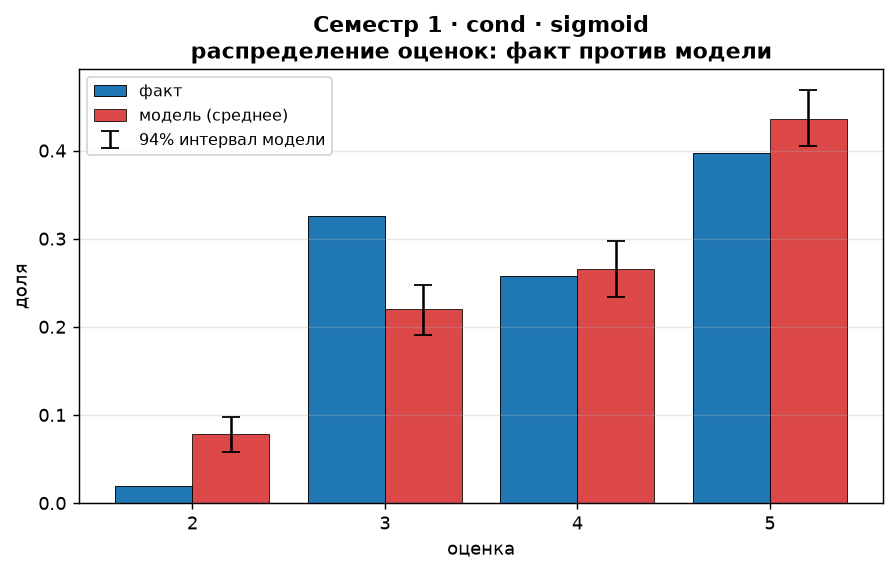
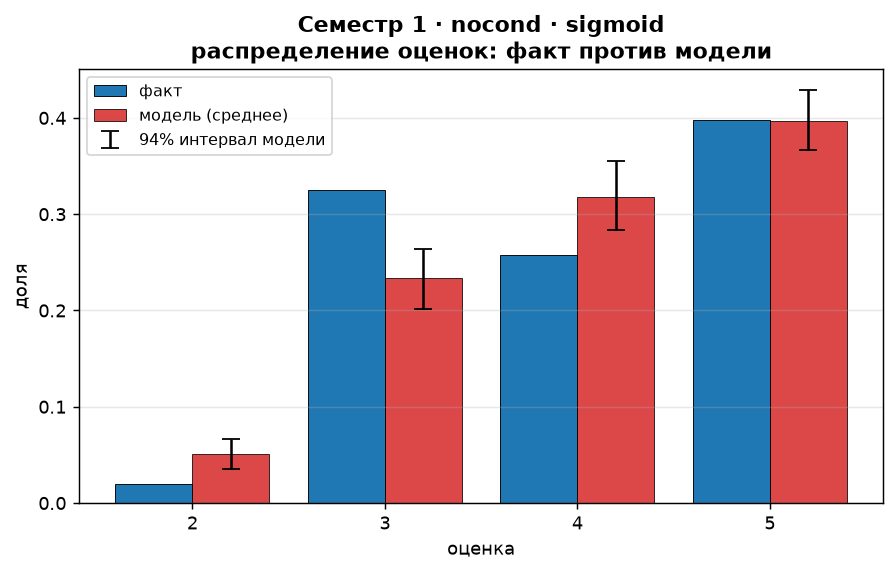
Дефолт nocond+sigmoid по валидации, метрика точности в validate.py

diff --git a/scripts/validate.py b/scripts/validate.py
@@ -7,11 +7,16 @@
      сложность модели. Сравнение делается ОТДЕЛЬНО по каждому семестру:
      LOO сопоставим только между моделями, обученными на одних наблюдениях.
 
-  2. Похожи ли данные, порождённые моделью, на настоящие? Из постериора
+  2. Насколько точно модель воспроизводит уже известные оценки? Считается
+     log predictive density, доля угаданных оценок и MAE — ровно на тех
+     вероятностях, которые выдаёт scripts/query.py. Метрики выборочные,
+     поэтому дополняют LOO, а не заменяют его.
+
+  3. Похожи ли данные, порождённые моделью, на настоящие? Из постериора
      сэмплируются оценки и их распределение сравнивается с фактическим.
 
-Результат: results/loo_compare_sem{1,2}.csv, results/ppc_summary.csv,
-           results/plots/ppc_sem{1,2}.png
+Результат: results/loo_compare_sem{1,2}.csv, results/predictive_scores.csv,
+           results/ppc_summary.csv, results/plots/ppc_sem{1,2}.png
 
     python scripts/validate.py
     python scripts/validate.py --thin 4     # реже прорежать (точнее, дольше)
@@ -29,7 +34,7 @@ import matplotlib
 matplotlib.use("Agg")
 import matplotlib.pyplot as plt
 
-from utils import BUILDERS, GRADES, chi_square_priors, RATIO_KINDS
+from utils import BUILDERS, GRADES, chi_square_priors, grade_probs, RATIO_KINDS
 from _paths import DATA, TRACES, RESULTS, PLOTS
 
 # Сколько draws оставить для LOO. Полная трасса — 16000 draws × ~1100
@@ -108,7 +113,50 @@ def compare_semester(sem, thin):
 
 
 # ---------------------------------------------------------------------------
-# (2) Posterior predictive check
+# (2) Прямая предсказательная точность на наблюдённых оценках
+# ---------------------------------------------------------------------------
+def predictive_scores(sem, thin):
+    """Насколько хорошо модель угадывает уже известные оценки.
+
+    Дополняет LOO: тот оценивает предсказание вне выборки и штрафует за
+    сложность, а здесь считается ровно то, что выдаёт scripts/query.py —
+    вероятности с маргинализацией по постериору. Метрики выборочные (модель
+    эти оценки видела), поэтому смотреть их надо ВМЕСТЕ с LOO, а не вместо.
+    """
+    df, matrix = load(sem)
+    obs_r, obs_c = np.where(~np.isnan(matrix))
+    actual = matrix[obs_r, obs_c].astype(int)
+    idx = actual - 2
+
+    rows = []
+    for variant in ("cond", "nocond"):
+        for ratio_kind in RATIO_KINDS:
+            path = TRACES / f"trace_sem{sem}_{variant}_{ratio_kind}.nc"
+            if not path.exists():
+                continue
+            idata = az.from_netcdf(path).sel(draw=slice(None, None, thin))
+            s = idata.posterior["student_ability"].values.reshape(-1, matrix.shape[0])
+            d = idata.posterior["item_difficulty"].values.reshape(-1, matrix.shape[1])
+
+            total = np.zeros((len(actual), len(GRADES)))
+            for s_draw, d_draw in zip(s, d):
+                total += grade_probs(s_draw[obs_r], d_draw[obs_c],
+                                     ratio_kind=ratio_kind, gate=(variant == "cond"))
+            probs = total / len(s)
+
+            p_actual = probs[np.arange(len(idx)), idx]
+            predicted = GRADES[probs.argmax(axis=1)]
+            rows.append({
+                "sem": sem, "model": variant, "ratio": ratio_kind,
+                "log_pred": round(float(np.log(p_actual).mean()), 4),
+                "accuracy": round(float((predicted == actual).mean()), 4),
+                "mae": round(float(np.abs(probs @ GRADES - actual).mean()), 4),
+            })
+    return rows
+
+
+# ---------------------------------------------------------------------------
+# (3) Posterior predictive check
 # ---------------------------------------------------------------------------
 def ppc_semester(sem, variant, ratio_kind, thin):
     """Сравнивает распределение оценок из модели с фактическим."""
@@ -175,7 +223,7 @@ def build_parser():
                                 formatter_class=argparse.RawDescriptionHelpFormatter)
     p.add_argument("--thin", type=int, default=DEFAULT_THIN,
                    help=f"брать каждый N-й draw (по умолчанию {DEFAULT_THIN})")
-    p.add_argument("--model", default="cond", choices=tuple(BUILDERS),
+    p.add_argument("--model", default="nocond", choices=tuple(BUILDERS),
                    help="какую конфигурацию проверять через PPC")
     p.add_argument("--ratio", default="sigmoid", choices=RATIO_KINDS)
     return p
@@ -186,6 +234,18 @@ def main(argv=None):
 
     for sem in (1, 2):
         compare_semester(sem, args.thin)
+
+    print("\n=== Предсказательная точность на наблюдённых оценках ===")
+    score_rows = []
+    for sem in (1, 2):
+        score_rows.extend(predictive_scores(sem, args.thin))
+    if score_rows:
+        scores = pd.DataFrame(score_rows).sort_values(
+            ["sem", "log_pred"], ascending=[True, False])
+        print(scores.to_string(index=False))
+        out = RESULTS / "predictive_scores.csv"
+        scores.to_csv(out, index=False)
+        print(f"сохранено: {out}")
 
     print(f"\n=== Posterior predictive check: {args.model} · {args.ratio} ===")
     ppc_rows = []

diff --git a/scripts/query.py b/scripts/query.py
@@ -44,8 +44,8 @@ def build_parser():
                    help="номер семестра (по умолчанию 1)")
     p.add_argument("--student", help="student_id из data/grades_sem*.csv")
     p.add_argument("--subject", help="название предмета (можно часть названия)")
-    p.add_argument("--model", choices=("cond", "nocond"), default="cond",
-                   help="вариант модели: с гейтом крайних оценок или без (по умолчанию cond)")
+    p.add_argument("--model", choices=("cond", "nocond"), default="nocond",
+                   help="вариант модели: с гейтом крайних оценок или без (по умолчанию nocond)")
     p.add_argument("--ratio", choices=RATIO_KINDS, default="sigmoid",
                    help="формула совпадения студент/предмет (по умолчанию sigmoid)")
     p.add_argument("--list", action="store_true",
